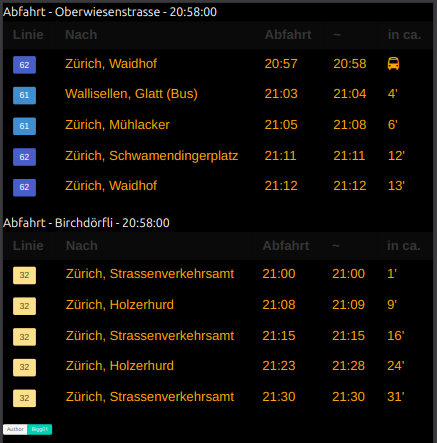
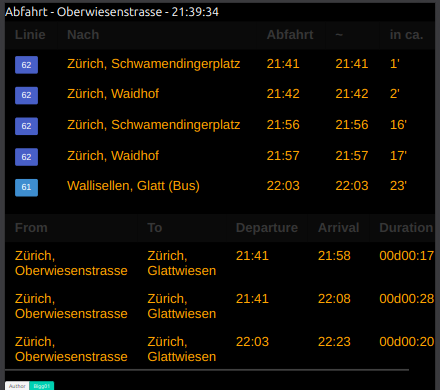
add connection

diff --git a/meinbus.py b/meinbus.py
@@ -150,7 +150,7 @@ def index():
 
                 {% endfor %}
 
-
+                Connection
                     <div class="table-container">
                 <table class="table is-fullwidth has-text-warning">
                     <thead class="has-background-black">
